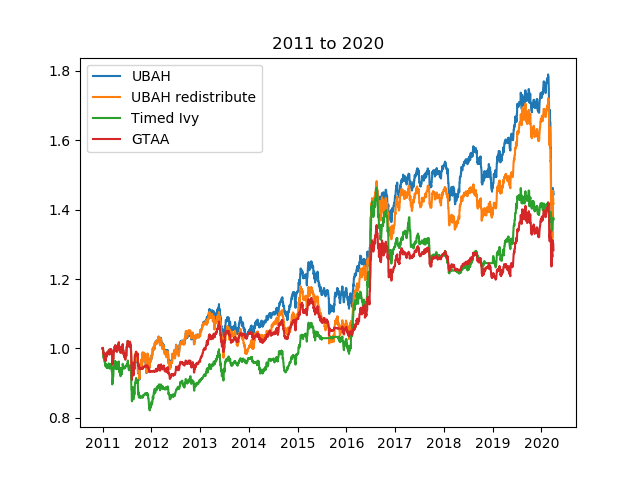
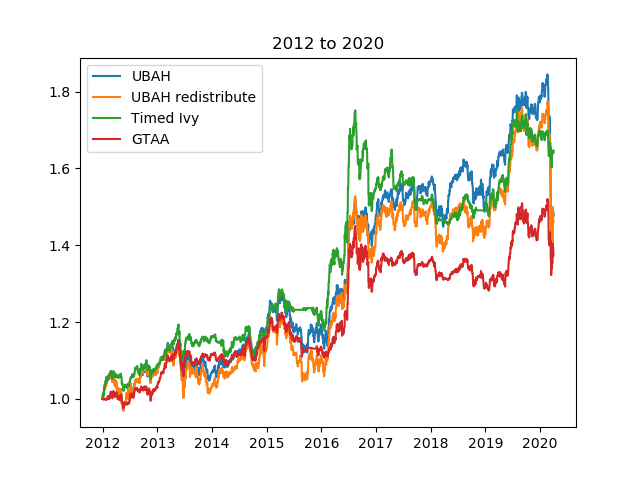
Forgot to start benchmark 1 year after first data point, leading to erratic initial behaviour for GTAA and Ivy

diff --git a/README.md b/README.md
@@ -28,10 +28,10 @@ Higher is better.
 
 | Strategy          | 3 months | 6 months | 1 year   | 3 years  | 5 years  | Max      |
 |-------------------|----------|----------|----------|----------|----------|----------|
-| UBAH              | 0.843351 | 0.8498   | 0.911717 | 0.976518 | 1.17665  | 1.451772 |
-| UBAH Redistribute | 0.856836 | 0.859557 | 0.946702 | 0.982323 | 1.218608 | 1.416269 |
-| Timed Ivy         | 0.9735   | 0.97304  | 1.056365 | 1.030815 | 1.291307 | 1.37176  |
-| GTAA              | 0.939676 | 0.941665 | 1.03739  | 1.009763 | 1.134197 | 1.283414 |
+| UBAH              | 0.83811  | 0.845028 | 0.909257 | 0.972598 | 1.180712 | 1.48514  |
+| UBAH Redistribute | 0.856836 | 0.859557 | 0.946702 | 0.982323 | 1.218608 | 1.459567 |
+| Timed Ivy         | 0.9735   | 0.97304  | 1.056365 | 1.030815 | 1.291307 | 1.641305 |
+| GTAA              | 0.939676 | 0.941665 | 1.03739  | 1.009763 | 1.134197 | 1.372894 |
 
 ![alt text](https://github.com/KieranLitschel/PortfolioBacktesting/blob/master/Historical%20Prices/Results/Returns.png "Return on Investment Graph")
 
@@ -41,9 +41,9 @@ Closer to zero is better.
 
 | Strategy          | 3 months | 6 months | 1 year   | 3 years  | 5 years  | Max      |
 |-------------------|----------|----------|----------|----------|----------|----------|
-| UBAH              | -0.25271 | -0.25271 | -0.25271 | -0.25271 | -0.25271 | -0.25271 |
+| UBAH              | -0.25751 | -0.25751 | -0.25751 | -0.25751 | -0.25751 | -0.25751 |
 | UBAH Redistribute | -0.23776 | -0.23776 | -0.23776 | -0.23776 | -0.23776 | -0.23776 |
-| Timed Ivy         | -0.05666 | -0.06687 | -0.08391 | -0.1179  | -0.16947 | -0.17852 |
+| Timed Ivy         | -0.05666 | -0.06687 | -0.08391 | -0.1179  | -0.16947 | -0.16947 |
 | GTAA              | -0.13007 | -0.13007 | -0.13007 | -0.13007 | -0.13007 | -0.13007 |
 
 ## Sharpe Ratio
@@ -52,10 +52,10 @@ Higher is better.
 
 | Strategy          | 3 months | 6 months | 1 year   | 3 years  | 5 years  | Max      |
 |-------------------|----------|----------|----------|----------|----------|----------|
-| UBAH              | 11.92124 | 16.60775 | 20.34415 | 16.03226 | 8.182127 | 5.221985 |
-| UBAH Redistribute | 13.15067 | 18.36562 | 18.7632  | 14.91211 | 7.808948 | 5.527563 |
-| Timed Ivy         | 66.18401 | 75.48059 | 31.01078 | 18.52679 | 9.916979 | 5.952432 |
-| GTAA              | 27.55021 | 36.59658 | 23.23647 | 23.64324 | 12.75924 | 8.275721 |
+| UBAH              | 11.59378 | 16.16016 | 19.67891 | 15.617   | 7.962531 | 5.512033 |
+| UBAH Redistribute | 13.15067 | 18.36562 | 18.7632  | 14.91211 | 7.808948 | 5.790307 |
+| Timed Ivy         | 66.18401 | 75.48059 | 31.01078 | 18.52679 | 9.916979 | 6.166177 |
+| GTAA              | 27.55021 | 36.59658 | 23.23647 | 23.64324 | 12.75924 | 8.624197 |
 
 # Portfolio Allocations by Asset Class
 
